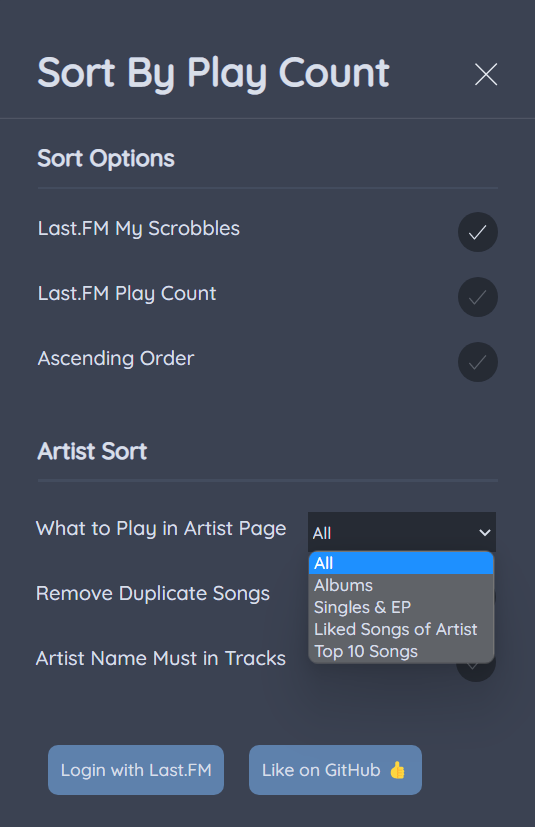
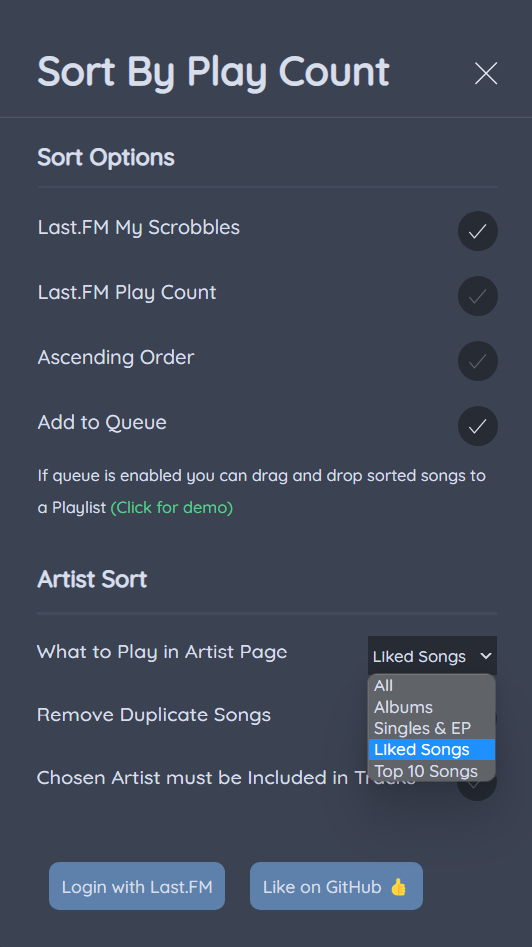
2.5 pics

diff --git a/Sort-by-Play-count/README.md b/Sort-by-Play-count/README.md
@@ -42,9 +42,11 @@ Step 3 : Then Paste your `UserName` in Spotify by going to User (on top right) -
 
 Step 1 : Enable Queue in Settings
 
-Step 2 : Sort any Songs in any Page
+Step 2 : Sort Songs in any Page
 
-Step 3 : Open Queue and drag and drop those songs in any playlist you like
+Step 3 : Open Queue and drag and drop first song (currently playing) to the playlist
+
+Step 4 : Then drag and drop the rest by selecting all songs (CTRL+A)
 
 ![lastfm Sort Demo](https://raw.githubusercontent.com/Tetrax-10/Spicetify-Extensions/master/Sort-by-Play-count/create-sorted-playlist.gif)
 
